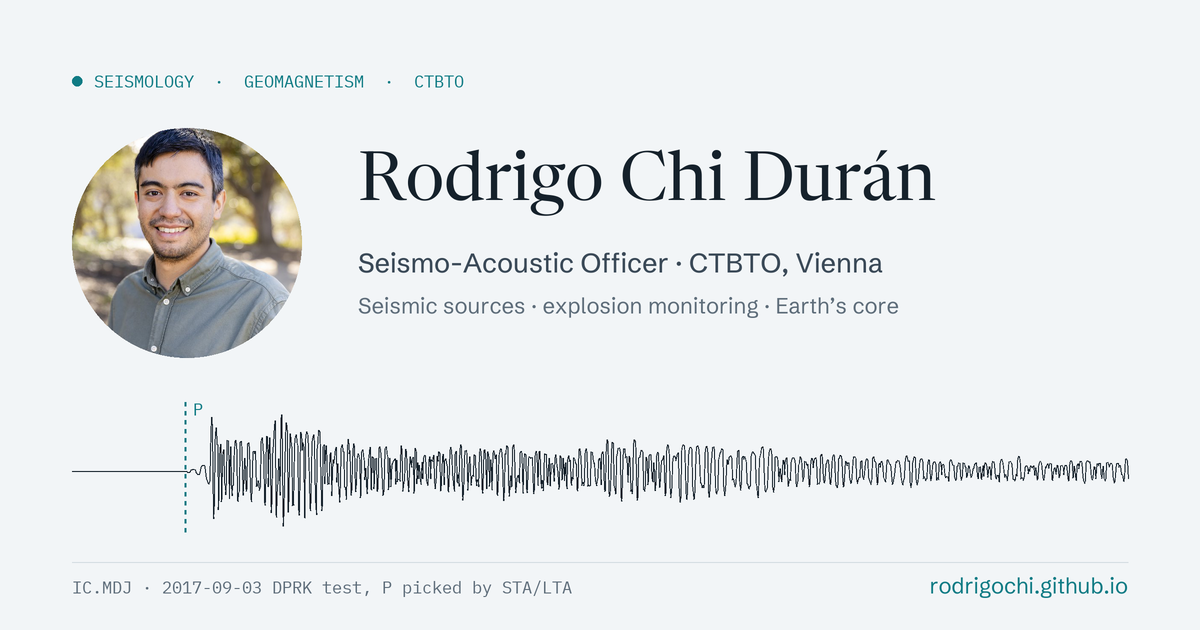
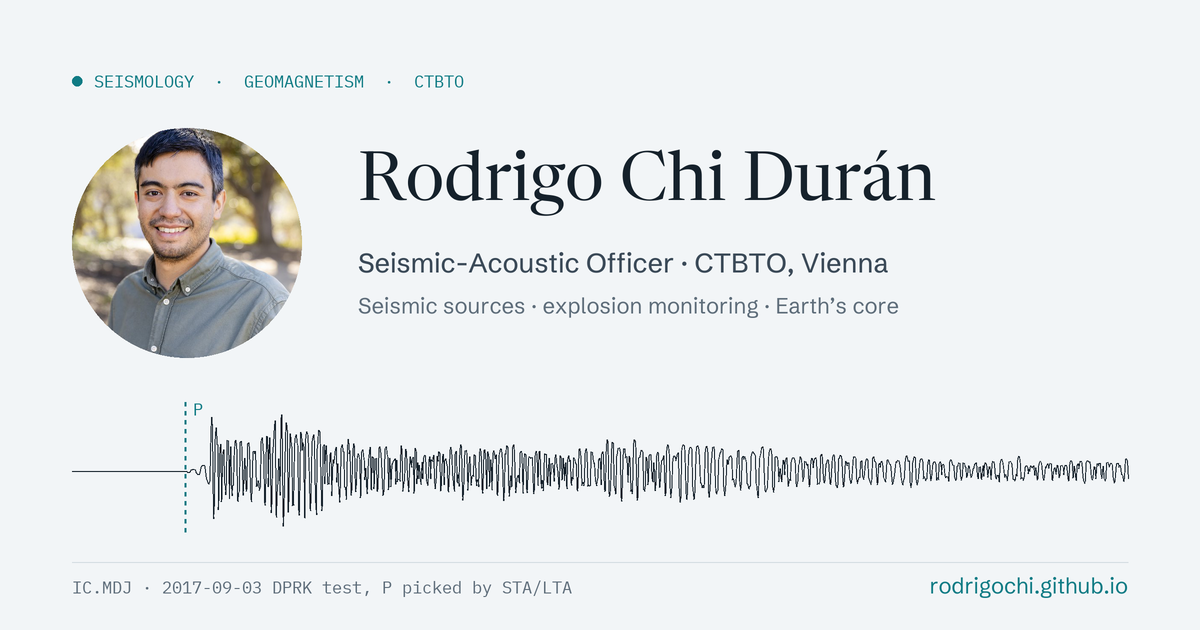
Fix job title (Seismic-Acoustic Officer) and show last-updated date
Claude-Session: https://claude.ai/code/session_01WtWQsTAe4e828psBALL9yk

Changed region(s): [[0.37, 0.3921, 0.74, 0.4524]]

diff --git a/index.html b/index.html
@@ -11,14 +11,14 @@
 <meta property="og:type" content="website">
 <meta property="og:url" content="https://rodrigochi.github.io/">
 <meta property="og:title" content="Rodrigo Chi Durán · Seismology &amp; Geodynamics">
-<meta property="og:description" content="Seismo-Acoustic Officer at the CTBTO. Research on seismic sources, explosion monitoring and waves in Earth's core.">
+<meta property="og:description" content="Seismic-Acoustic Officer at the CTBTO. Research on seismic sources, explosion monitoring and waves in Earth's core.">
 <meta property="og:image" content="https://rodrigochi.github.io/assets/social-card.png">
 <meta property="og:image:width" content="1200">
 <meta property="og:image:height" content="630">
 <meta property="og:image:alt" content="Rodrigo Chi Durán — Seismology, geomagnetism and geodynamics">
 <meta name="twitter:card" content="summary_large_image">
 <meta name="twitter:title" content="Rodrigo Chi Durán · Seismology &amp; Geodynamics">
-<meta name="twitter:description" content="Seismo-Acoustic Officer at the CTBTO. Seismic sources, explosion monitoring and Earth's core.">
+<meta name="twitter:description" content="Seismic-Acoustic Officer at the CTBTO. Seismic sources, explosion monitoring and Earth's core.">
 <meta name="twitter:image" content="https://rodrigochi.github.io/assets/social-card.png">
 <meta name="description" content="Rodrigo Chi Durán. Ph.D. in Earth and Planetary Science, UC Berkeley. Geodynamics, geomagnetism and seismology.">
 <link rel="icon" type="image/png" href="assets/favicon-32.png">
@@ -420,8 +420,8 @@ html:not(.enhanced) .js-only,html:not(.enhanced) #theme,html:not(.enhanced) .lab
     </div>
     <div class="who">
       <div class="intro"><h1>Rodrigo Chi Durán</h1>
-      <p class="role"><span data-t="role">Seismo-Acoustic Officer</span> · <a href="https://www.ctbto.org/">CTBTO</a> <span data-t="city">· Vienna, Austria</span></p></div>
-      <p class="bio" data-th="bio">Hello, I’m Rodrigo Chi Durán (<span class="zh" lang="zh-Hant">徐慶賢</span>/<span class="zh" lang="zh-Hans">徐庆贤</span>). I am a Seismo-Acoustic Officer at the <a href="https://www.ctbto.org/">Comprehensive Nuclear-Test-Ban Treaty Organization (CTBTO)</a> in Vienna, Austria. I hold a Ph.D. in Earth and Planetary Science from <a href="https://eps.berkeley.edu/">UC Berkeley</a> and trained in Electrical Engineering at the <a href="https://uchile.cl/">Universidad de Chile</a>. My research focuses on seismic sources, forensic seismology and outer core dynamics. I’m always happy to discuss research and potential collaborations.</p>
+      <p class="role"><span data-t="role">Seismic-Acoustic Officer</span> · <a href="https://www.ctbto.org/">CTBTO</a> <span data-t="city">· Vienna, Austria</span></p></div>
+      <p class="bio" data-th="bio">Hello, I’m Rodrigo Chi Durán (<span class="zh" lang="zh-Hant">徐慶賢</span>/<span class="zh" lang="zh-Hans">徐庆贤</span>). I am a Seismic-Acoustic Officer at the <a href="https://www.ctbto.org/">Comprehensive Nuclear-Test-Ban Treaty Organization (CTBTO)</a> in Vienna, Austria. I hold a Ph.D. in Earth and Planetary Science from <a href="https://eps.berkeley.edu/">UC Berkeley</a> and trained in Electrical Engineering at the <a href="https://uchile.cl/">Universidad de Chile</a>. My research focuses on seismic sources, forensic seismology and outer core dynamics. I’m always happy to discuss research and potential collaborations.</p>
       <div class="links">
         <a href="mailto:rodrigo.chi@ctbto.org"><svg class="ico" viewBox="0 0 24 24" fill="none" stroke="currentColor" stroke-width="1.8" stroke-linejoin="round" aria-hidden="true"><rect x="3" y="5" width="18" height="14" rx="2"/><path d="m3.5 6.5 8.5 7 8.5-7"/></svg><span data-t="email.me">Email me</span></a><button type="button" class="copy-mail js-only" data-t="email.copy">Copy email</button><span class="ok mail-ok" aria-live="polite"></span>
         <a href="https://www.linkedin.com/in/rodrigo-chi-2ba2a0267/"><span class="li-ico"><svg class="ico" viewBox="0 0 24 24" fill="currentColor" aria-hidden="true"><path d="M20.45 20.45h-3.56v-5.57c0-1.33-.02-3.04-1.85-3.04-1.85 0-2.14 1.45-2.14 2.94v5.67H9.35V9h3.41v1.56h.05c.48-.9 1.64-1.85 3.37-1.85 3.6 0 4.27 2.37 4.27 5.46v6.28ZM5.34 7.43a2.06 2.06 0 1 1 0-4.13 2.06 2.06 0 0 1 0 4.13ZM7.12 20.45H3.56V9h3.56v11.45ZM22.22 0H1.77C.79 0 0 .77 0 1.73v20.54C0 23.23.79 24 1.77 24h20.45c.98 0 1.78-.77 1.78-1.73V1.73C24 .77 23.2 0 22.22 0Z"/></svg></span>LinkedIn</a>
@@ -611,7 +611,7 @@ html:not(.enhanced) .js-only,html:not(.enhanced) #theme,html:not(.enhanced) .lab
   </section>
 </main>
 
-<footer><div class="wrap"><span>© 2026 Rodrigo Chi Durán</span><span data-t="foot">Press <kbd>/</kbd> to search</span></div></footer>
+<footer><div class="wrap"><span>© 2026 Rodrigo Chi Durán · <span data-t="updated">Last updated: September 2026</span></span><span data-t="foot">Press <kbd>/</kbd> to search</span></div></footer>
 
 <div class="pal" id="pal" hidden>
   <div class="pal-box" role="dialog" aria-modal="true" aria-label="Search">
@@ -649,8 +649,8 @@ const T = {
   en:{
     "nav.more":"More","nav.background":"Background",skip:"Skip to content","email.me":"Email me","email.copy":"Copy email","scholar.profile":"View Google Scholar profile",close:"Close search",themeLabel:"Color theme",themeNames:{auto:"system",light:"light",dark:"dark"},tabs:{src:"Sources & forensics",geo:"Geomagnetism",sig:"Signals & data"},intro:{src:"My research focuses on the seismic sources of earthquakes, explosions, and collapses. At the CTBTO, I work on the seismic monitoring behind the verification of the Comprehensive Nuclear-Test-Ban Treaty, improving event characterization methods and supporting the data analysis process.",geo:"Changes in the magnetic field offer a window into motion at the top of Earth’s core. Explore how their patterns evolve over time.",sig:"Following magnetic patterns across longitude and time reveals drifting structures. Decomposition methods help separate these signals into waves."},
     "nav.about":"About","nav.research":"Research","nav.pubs":"Publications","nav.projects":"Projects","nav.contact":"Contact",search:"Search",
-    role:"Seismo-Acoustic Officer",city:"· Vienna, Austria",
-    bio:'Hello, I’m Rodrigo Chi Durán (<span class="zh" lang="zh-Hant">徐慶賢</span>/<span class="zh" lang="zh-Hans">徐庆贤</span>). I am a Seismo-Acoustic Officer at the <a href="https://www.ctbto.org/">Comprehensive Nuclear-Test-Ban Treaty Organization (CTBTO)</a> in Vienna, Austria. I hold a Ph.D. in Earth and Planetary Science from <a href="https://eps.berkeley.edu/">UC Berkeley</a> and trained in Electrical Engineering at the <a href="https://uchile.cl/">Universidad de Chile</a>. My research focuses on seismic sources, forensic seismology and outer core dynamics. I’m always happy to discuss research and potential collaborations.',
+    role:"Seismic-Acoustic Officer",city:"· Vienna, Austria",
+    bio:'Hello, I’m Rodrigo Chi Durán (<span class="zh" lang="zh-Hant">徐慶賢</span>/<span class="zh" lang="zh-Hans">徐庆贤</span>). I am a Seismic-Acoustic Officer at the <a href="https://www.ctbto.org/">Comprehensive Nuclear-Test-Ban Treaty Organization (CTBTO)</a> in Vienna, Austria. I hold a Ph.D. in Earth and Planetary Science from <a href="https://eps.berkeley.edu/">UC Berkeley</a> and trained in Electrical Engineering at the <a href="https://uchile.cl/">Universidad de Chile</a>. My research focuses on seismic sources, forensic seismology and outer core dynamics. I’m always happy to discuss research and potential collaborations.',
     interests:"Interests",i1:"Geodynamics",i2:"Earthquakes",i3:"Seismic Sources",i4:"Geomagnetism",i5:"Data Science",i6:"Explosion Monitoring",
     education:"Education",e1:"Ph.D. in Earth and Planetary Science",e2:"BSc. in Electrical Engineering",
     seis:"Real vertical-component record of the sixth North Korean declared nuclear test, about 370 km from the site: the event behind my 2021 and 2024 papers. Bandpass 0.8–6 Hz, amplitude compressed for display. The P arrival was picked automatically with an STA/LTA detector. Hover to read the time after origin. Data: EarthScope / IRIS.",
@@ -663,7 +663,7 @@ nowTag:"now","now.lbl":"Now","now.go":"Seismic sources →","now.p":'Seismic mon
     "b2.k":"Course notes · 2017","b2.p":"Problems I wrote and collected as a teaching assistant for Electromagnetism at the Universidad de Chile: 18 chapters, from Coulomb’s law to Maxwell’s equations, about 200 problems in 385 pages, in Spanish.","b2.soon":"A new edition is coming soon.","b2.go":"Download PDF (10 MB) →",
     "projects.sub":"Teaching material and family history.",
     "z.k":"Family history · ongoing","z.h":'The Chi (<span class="zh" lang="zh-Hant">徐</span>/Xu) family tree',"z.p":"My family has a documented history of almost 900 years, thirty generations down to me. I have gathered, modernized and studied our genealogy, and built this site to keep documenting it and working on it.","z.go":"Enter →",
-    copy:"copy",copied:"copied",foot:"Press / to search",ph:"Search papers, topics, sections…",gPapers:"Papers",gPages:"Sections",none:"No results",
+    copy:"copy",copied:"copied",foot:"Press / to search",updated:"Last updated: September 2026",ph:"Search papers, topics, sections…",gPapers:"Papers",gPages:"Sections",none:"No results",
     review:"In review",pubsCount:(n,r)=>`${n} papers · ${r} in review`,clearTag:"Clear filter",
     all:"All",abstract:"Abstract",cite:"Cite",copyBib:"Copy BibTeX",sel:"selected",papersN:n=>`${n} paper${n===1?"":"s"} →`,after:"after origin",
     topics:{geo:["Geomagnetism and the core","Earlier work on Earth’s core dynamics: waves at the top of the core seen in satellite-era geomagnetic field models, studied with signal processing and data-driven techniques to model the outer core and the stratified layer at its top."],
@@ -673,8 +673,8 @@ nowTag:"now","now.lbl":"Now","now.go":"Seismic sources →","now.p":'Seismic mon
   es:{
     "nav.more":"Más","nav.background":"Trayectoria",skip:"Saltar al contenido","email.me":"Escríbeme","email.copy":"Copiar correo","scholar.profile":"Ver perfil en Google Scholar",close:"Cerrar búsqueda",themeLabel:"Tema de color",themeNames:{auto:"sistema",light:"claro",dark:"oscuro"},tabs:{src:"Fuentes y forense",geo:"Geomagnetismo",sig:"Señales y datos"},intro:{src:"Mi investigación se centra en las fuentes sísmicas de terremotos, explosiones y colapsos. En la CTBTO trabajo en el monitoreo sísmico que permite verificar el Tratado de Prohibición Completa de los Ensayos Nucleares, mejorando los métodos de caracterización de eventos y apoyando el proceso de análisis de datos.",geo:"Los cambios del campo magnético permiten explorar el movimiento en la parte superior del núcleo terrestre. Observa cómo evolucionan sus patrones en el tiempo.",sig:"Seguir los patrones magnéticos en longitud y tiempo revela estructuras que se desplazan. Los métodos de descomposición ayudan a separar estas señales en ondas."},
     "nav.about":"Sobre mí","nav.research":"Investigación","nav.pubs":"Publicaciones","nav.projects":"Proyectos","nav.contact":"Contacto",search:"Buscar",
-    role:"Seismo-Acoustic Officer",city:"· Viena, Austria",
-    bio:'Hola, soy Rodrigo Chi Durán (<span class="zh" lang="zh-Hant">徐慶賢</span>/<span class="zh" lang="zh-Hans">徐庆贤</span>). Soy <i lang="en">Seismo-Acoustic Officer</i> en la <a href="https://www.ctbto.org/">Organización del Tratado de Prohibición Completa de los Ensayos Nucleares (CTBTO)</a>, en Viena, Austria. Me doctoré en <i lang="en">Earth and Planetary Science</i> en <a href="https://eps.berkeley.edu/">UC Berkeley</a> y me formé en Ingeniería Eléctrica en la <a href="https://uchile.cl/">Universidad de Chile</a>. Mi investigación se centra en las fuentes sísmicas, la <i lang="en">forensic seismology</i> y la dinámica del núcleo externo. Si quieres conversar sobre investigación o colaborar, escríbeme.',
+    role:"Seismic-Acoustic Officer",city:"· Viena, Austria",
+    bio:'Hola, soy Rodrigo Chi Durán (<span class="zh" lang="zh-Hant">徐慶賢</span>/<span class="zh" lang="zh-Hans">徐庆贤</span>). Soy <i lang="en">Seismic-Acoustic Officer</i> en la <a href="https://www.ctbto.org/">Organización del Tratado de Prohibición Completa de los Ensayos Nucleares (CTBTO)</a>, en Viena, Austria. Me doctoré en <i lang="en">Earth and Planetary Science</i> en <a href="https://eps.berkeley.edu/">UC Berkeley</a> y me formé en Ingeniería Eléctrica en la <a href="https://uchile.cl/">Universidad de Chile</a>. Mi investigación se centra en las fuentes sísmicas, la <i lang="en">forensic seismology</i> y la dinámica del núcleo externo. Si quieres conversar sobre investigación o colaborar, escríbeme.',
     interests:"Intereses",i1:"Geodinámica",i2:"Terremotos",i3:"Fuentes sísmicas",i4:"Geomagnetismo",i5:"Ciencia de datos",i6:"Monitoreo de explosiones",
     education:"Formación",e1:"Ph.D. en Ciencias de la Tierra y Planetarias",e2:"Licenciatura en Ciencias de la Ingeniería, mención Eléctrica",
     seis:"Registro real, componente vertical, del sexto ensayo nuclear declarado de Corea del Norte, a unos 370 km del sitio: el evento detrás de mis papers de 2021 y 2024. Filtro pasabanda 0,8–6 Hz, amplitud comprimida para visualizar. La llegada P se detectó automáticamente con un detector STA/LTA. Toca el registro para leer el tiempo desde el origen. Datos: EarthScope / IRIS.",
@@ -687,7 +687,7 @@ nowTag:"ahora","now.lbl":"Ahora","now.go":"Fuentes sísmicas →","now.p":'Monit
     "b2.k":"Apunte · 2017","b2.p":"Problemas que escribí y reuní como profesor auxiliar de Electromagnetismo en la Universidad de Chile: 18 capítulos, de la ley de Coulomb a las ecuaciones de Maxwell, con unos 200 problemas en 385 páginas.","b2.soon":"Pronto habrá una nueva edición.","b2.go":"Descargar PDF (10 MB) →",
     "projects.sub":"Material docente e historia familiar.",
     "z.k":"Historia familiar · en curso","z.h":'El árbol genealógico de la familia Chi (<span class="zh" lang="zh-Hant">徐</span>/Xu)',"z.p":"Mi familia tiene una historia documentada de casi 900 años: treinta generaciones hasta llegar a mí. He recopilado, modernizado y estudiado nuestra genealogía, y creé este sitio para seguir documentándola y ampliándola.","z.go":"Entrar →",
-    copy:"copiar",copied:"copiado",foot:"Presiona / para buscar",ph:"Busca papers, temas, secciones…",gPapers:"Papers",gPages:"Secciones",none:"Sin resultados",
+    copy:"copiar",copied:"copiado",foot:"Presiona / para buscar",updated:"Última actualización: septiembre de 2026",ph:"Busca papers, temas, secciones…",gPapers:"Papers",gPages:"Secciones",none:"Sin resultados",
     review:"En revisión",pubsCount:(n,r)=>`${n} artículos · ${r} en revisión`,clearTag:"Quitar filtro",
     all:"Todos",abstract:"Abstract",cite:"Citar",copyBib:"Copiar BibTeX",sel:"destacado",papersN:n=>`${n} paper${n===1?"":"s"} →`,after:"desde el origen",
     topics:{geo:["Geomagnetismo y núcleo","Trabajo anterior sobre la dinámica del núcleo terrestre: ondas geomagnéticas en el tope del núcleo, observadas en modelos del campo de la era satelital y estudiadas con procesamiento de señales y métodos basados en datos para modelar el núcleo externo y su capa estratificada."],

diff --git a/scripts/make-social-card.py b/scripts/make-social-card.py
@@ -23,7 +23,7 @@ m = Image.new('L', av.size, 0); ImageDraw.Draw(m).ellipse([0, 0, av.size[0] - 1,
 py = 128 * S; im.paste(av, (P, py), m)
 x = P + 230 * S + 56 * S
 d.text((x, py + 22 * S), 'Rodrigo Chi Durán', font=name, fill=INK)
-d.text((x, py + 118 * S), 'Seismo-Acoustic Officer · CTBTO, Vienna', font=sub, fill=INK2)
+d.text((x, py + 118 * S), 'Seismic-Acoustic Officer · CTBTO, Vienna', font=sub, fill=INK2)
 d.text((x, py + 164 * S), 'Seismic sources · explosion monitoring · Earth’s core', font=small, fill=MUTED)
 tr = json.load(open(os.path.join(ROOT, 'assets/mdj_2017-09-03_BHZ.json'))); y = tr['y']; n = len(y)
 top, bot = 412 * S, 530 * S; mid = (top + bot) / 2; amp = (bot - top) / 2 * 0.95; x0, x1 = P, W - P
